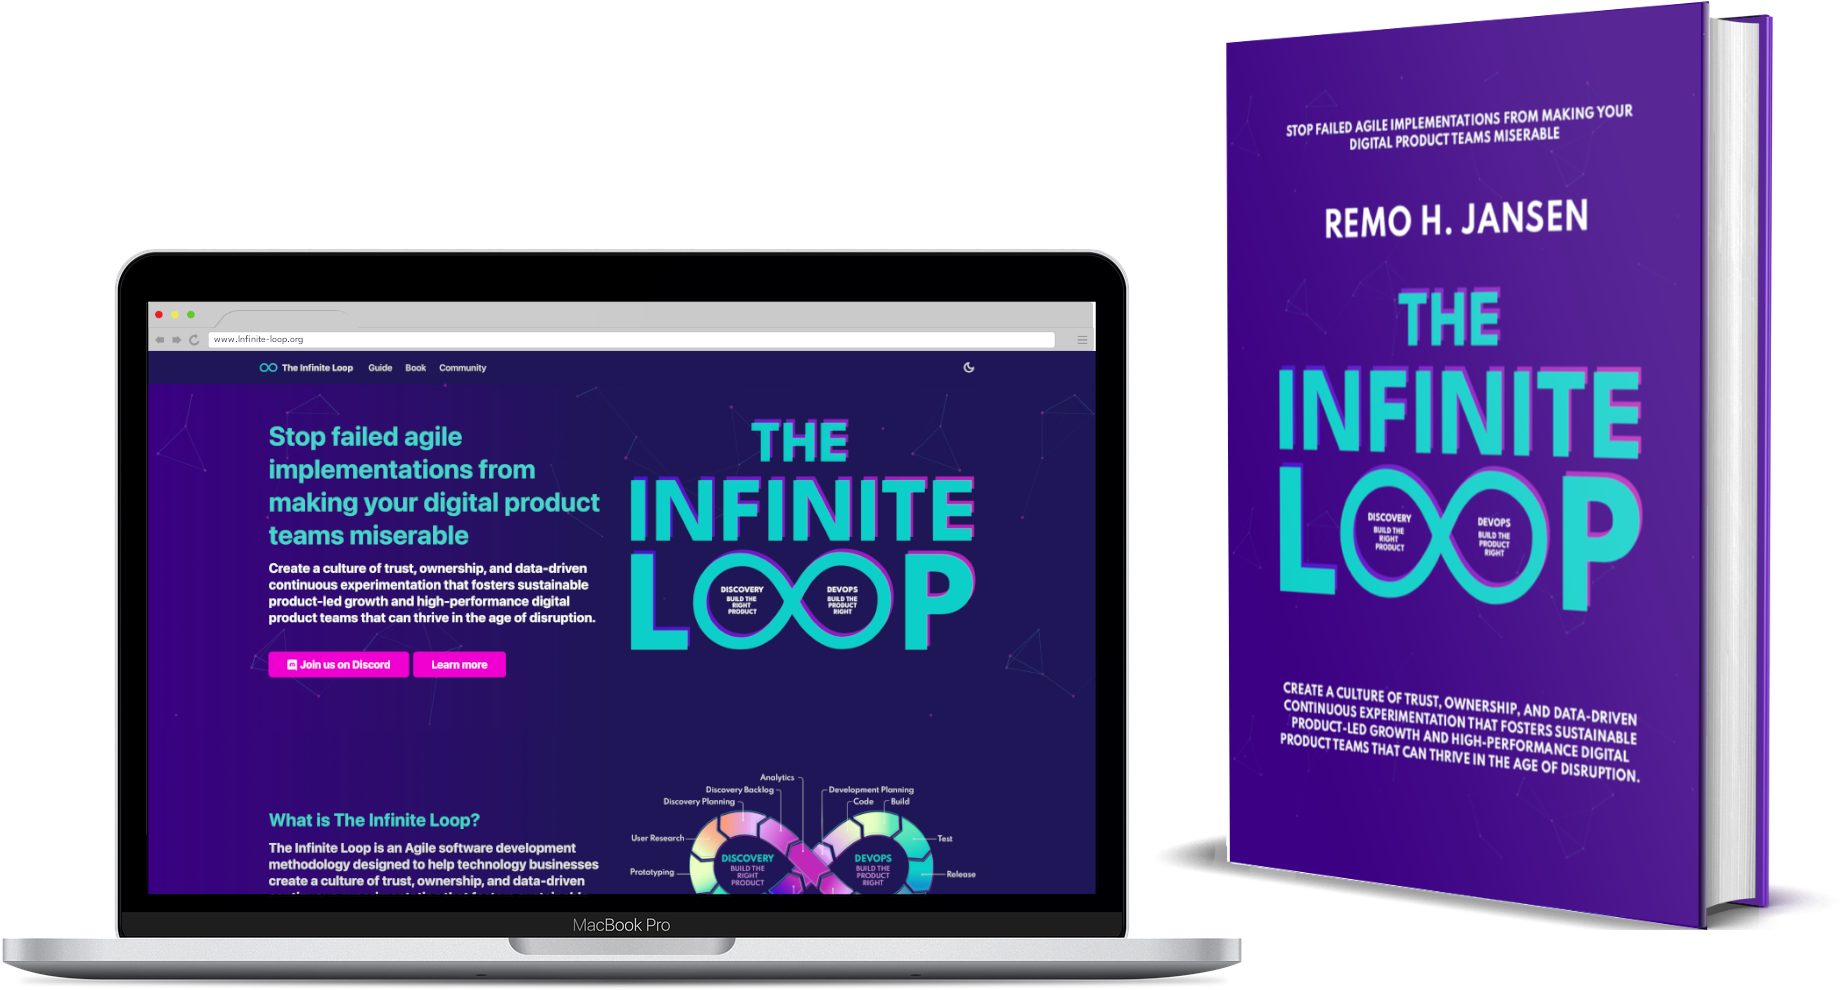
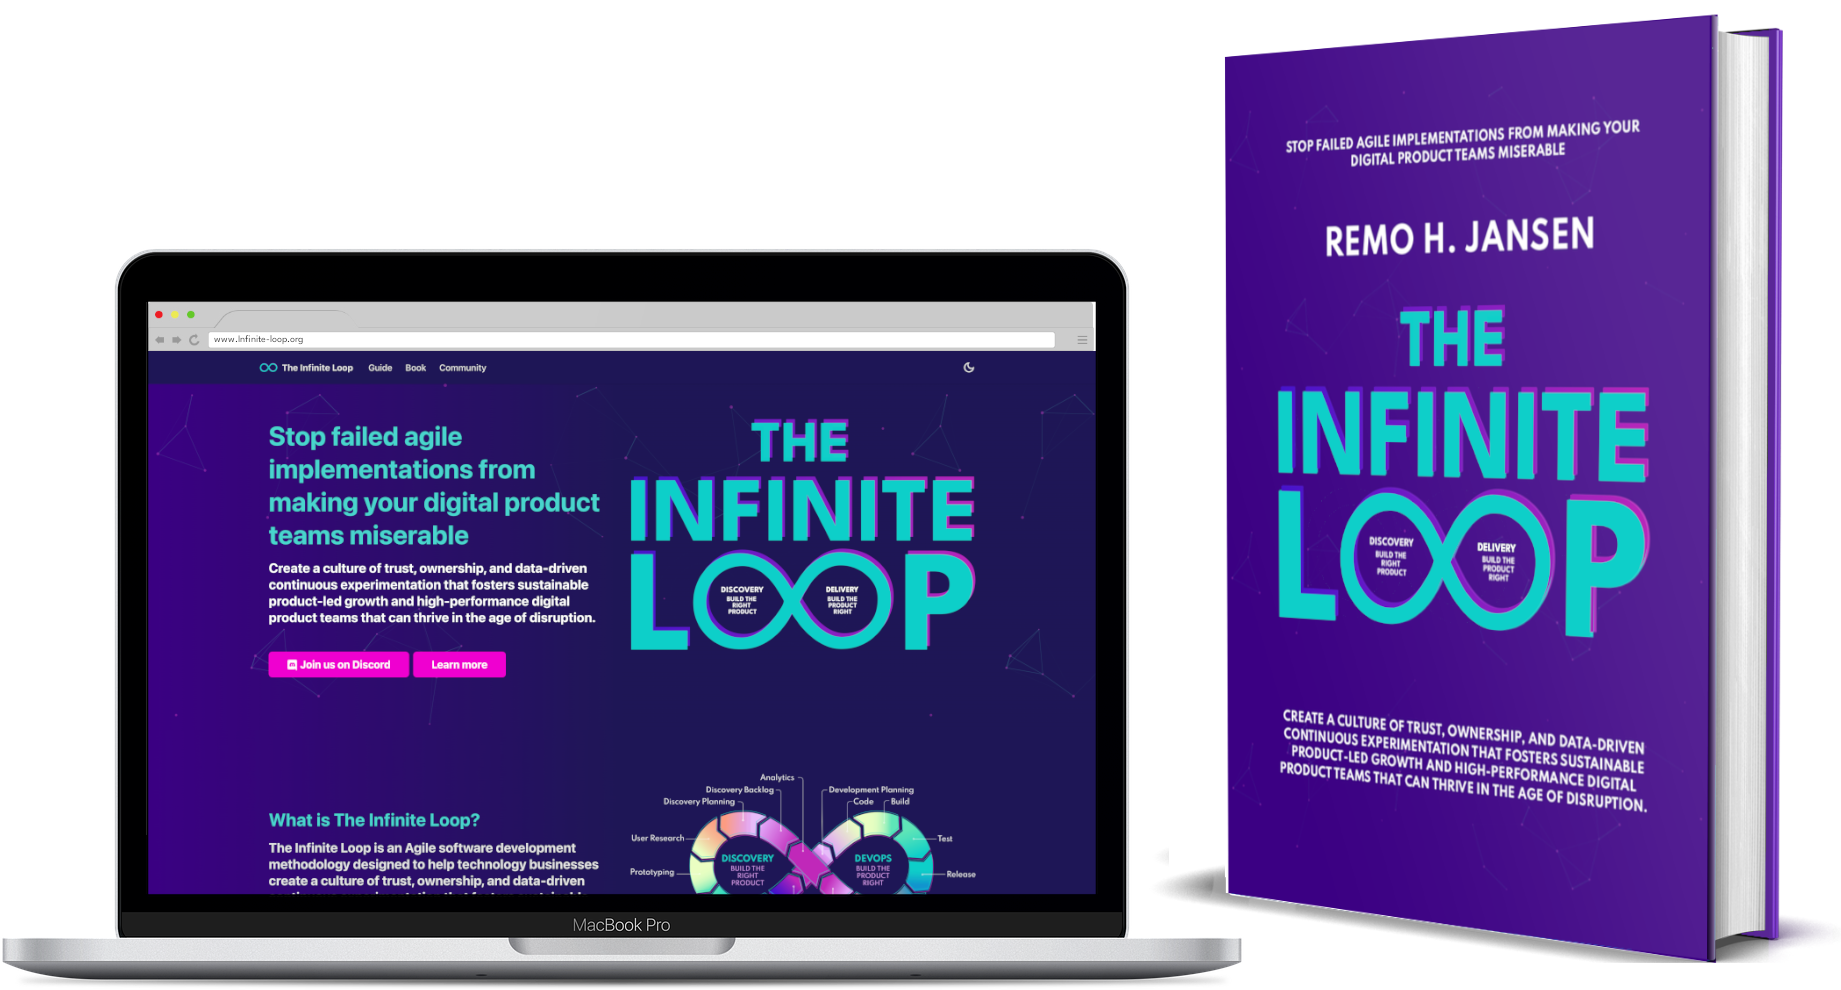
WIP content

Changed region(s): [[0.6192, 0.0, 0.9908, 0.9697]]

diff --git a/src/pages/book.tsx b/src/pages/book.tsx
@@ -20,7 +20,6 @@ const SubscribeModal: React.FC<ModalProps> = ({ isOpen, onRequestClose }) => {
       bottom: "auto",
       marginRight: "-50%",
       transform: "translate(-50%, -50%)",
-      maxWidth: "60%",
       zIndex: 9999,
       background: "var(--ifm-card-background-color)",
       color: "var(--ifm-font-color-base)",
@@ -34,6 +33,9 @@ const SubscribeModal: React.FC<ModalProps> = ({ isOpen, onRequestClose }) => {
   return (
     <Modal isOpen={isOpen} onRequestClose={onRequestClose} style={customStyles}>
       <div className="modal-content">
+        <div className="modal-close">
+          <button onClick={onRequestClose}>ⓧ</button>
+        </div>
         <div className="row">
           <div className="col col--4">
             <img src="/img/book.png" />
@@ -65,7 +67,7 @@ const SubscribeModal: React.FC<ModalProps> = ({ isOpen, onRequestClose }) => {
                       value={value}
                       onChange={handleInputChange}
                       name="EMAIL"
-                      className="required email"
+                      className="required email modal-email"
                       id="mce-EMAIL"
                       required
                     />

diff --git a/src/css/custom.css b/src/css/custom.css
@@ -114,16 +114,31 @@ h1 {
   margin: 0 0 var(--ifm-paragraph-margin-bottom);
 }
 
-.modal-content input[type='email'] {
-  padding: 0.5rem;
-  margin-left: 1rem;
-  width: 50%;
-}
-
 .card .text--truncate {
   overflow: hidden;
   text-overflow: inherit;
   white-space: normal;
+}
+
+.modal-close button {
+  background-color: transparent;
+  border: none;
+  font-size: 2rem;
+  float: right;
+  font-weight: bold;
+  cursor: pointer;
+  margin-right: -30px;
+  margin-top: -30px;
+}
+
+.modal-close {
+  height: 50px;
+}
+
+.modal-email {
+  padding: 0.5rem;
+  display: block;
+  width: 100%;
 }
 
 /* Mobile Devices */
@@ -133,6 +148,10 @@ h1 {
   }
   .hero__subtitle {
     font-size: var(--ifm-h2-font-size);
+  }
+  .ReactModal__Content {
+    max-height: 100vh;
+    overflow-y: scroll;
   }
 }
       
@@ -164,6 +183,9 @@ h1 {
   .hero__subtitle {
     font-size: 16px;
   }
+  .ReactModal__Content {
+    max-width: 60%;
+  }
 }
   
 /* Big boi Monitors */
@@ -173,5 +195,8 @@ h1 {
   }
   .hero__subtitle {
     font-size: 16px;
+  }
+  .ReactModal__Content {
+    max-width: 60%;
   }
 }

diff --git a/guide/02-the-infinite-loop/01-overview.md b/guide/02-the-infinite-loop/01-overview.md
@@ -25,7 +25,7 @@ When we say "discovery," we typically refer to understanding customers' pain poi
 
 Understanding problems and opportunities before you set out to solve them helps reduce risk and uncertainty around investing time and money. It also gives you a solid foundation to launch and grow your product and business once you're ready.
 
-The discovery phase aims to understand the business goals and user needs. The goal is to design solutions to address their critical challenges before committing resources to development. However, this doesn't mean that developers are not involved in the discovery phase. Developers should be engaged in direct conversations with the customer. Also, sometimes the only way to remove unknowns, especially technical unknowns, is to build a prototype that might require development resources. 
+Discovery aims to understand the business goals and user needs. The goal is to design solutions to address their critical challenges before committing resources to development. However, this doesn't mean that developers are not involved in Discovery. Developers should be engaged in direct conversations with the customer. Also, sometimes the only way to remove unknowns, especially technical unknowns, is to build a prototype that might require development resources. 
 
 The goal of product discovery is not necessary to ship features. Instead, it's to promote an environment of learning that will help you prioritize the most learning for the least amount of effort, helping you consistently and incrementally improve your products and features. Ask yourself: what's the smallest thing we can do today to learn something new that would guide us in making decisions? By using this framework and following its steps, product teams can create an environment of continuous learning that leads to genuinely excellent products. 
 
@@ -41,7 +41,7 @@ The goal is to ensure we **build the right product** by eliminating risk (unknow
 
 The discovery process isn't always smooth. Product discovery isn't a linear process; it's an iterative process that changes as you learn more about user needs and reduce uncertainty.
 
-The discovery phase should use good practices and techniques that traditionally have been part of the Lean UX and Product-led growth movements.
+The Discovery should use good practices and techniques that traditionally have been part of the Lean UX and Product-led growth movements.
 
 - Research
 - Ideation
@@ -72,15 +72,15 @@ You can learn more about these techniques by reading the official guide. The gui
 
 :::
 
-The discovery phase should collect data (e.g. customer feedback, usability testing) so that the product team gains enough confidence to commit; they work together to finalise a specification that can be included in the DevOps backlog.
+The Discovery should collect data (e.g. customer feedback, usability testing) so that the product team gains enough confidence to commit; they work together to finalise a specification that can be included in the Delivery backlog.
 
-## DevOps: build the product right
+## Delivery: build the product right
 
 After validating our solution ideas with real user data, developers can implement the application. There are no arbitrary deadlines and inaccurate estimates; we trust the developers are pragmatic and reach the right compromise between providing value and managing technical debt. At this point, our developers are perfectly aware of what they need to get done; they are motivated to deliver value to our customers. 
 
 The developers only need us to leave them alone for a few hours so they can get into the flow and get work done. They have a high level of ownership and are responsible for implementing, releasing and operating the code changes. They constantly search for ways to leverage automation to optimize their feedback loops and improve efficiency. The goal is to **build the product right**.
 
-The DevOps "phase" should implement The Three Ways principles and  use standard DevOps techniques such as the following:
+The Delivery should implement The Three Ways principles and use standard DevOps techniques such as the following:
 
 - Continuous integration (CI)
 - Continuous delivery (CD)
@@ -103,6 +103,8 @@ One of the most critical characteristics of high-performance teams is psychologi
 
 ## Continuous delivery of value
 
-The Infinite Loop is an iterative methodology. The Infinite Loop divides the delivery process into two phases or stages: Discovery and DevOps. The Discovery backlog contains user stories that can be pulled into the Discovery phase. When the UX designers and developers understand the problem they are trying to solve and the proposed solution, they write a spec that becomes an item in the DevOps backlog. 
+The Infinite Loop is meant to be iterative, not linear. The Infinite Loop divides the flow of work into Discovery and Delivery. The Discovery backlog contains user stories that can be pulled into the workboard. When the UX designers and developers understand the problem they are trying to solve and the proposed solution, they write a spec that becomes an item in the Delivery backlog.
 
-However, these two "phases" are not linear. The process should be iterative. We pick one customer pain point at a time and use discovery to mitigate the risk before proceeding to development. Often the same pain point will go through multiple discovery + development iterations. We should use data analytics, A/B testing and outcome basic metrics to measure our progress towards solving our customers' pain points. Discovery leads to development, and development leads to discovery. The process is iterative and infinite, not linear.
+However, Discovery and Delivery are not linear. The process should be iterative. Some discovery work takes a few hours, and others can take longer, but it is an ongoing process of ideation, validation and removing unknowns. We pick one customer pain point at a time and use Discovery to mitigate the risk before proceeding to development. Often the same pain point will go through multiple discovery/development iterations. The Discovery might involve prototyping, surveys, and data mining in early iterations, but successive iterations probably include data analytics and A/B testing in production (doing this in production requires Delivery)
+
+Rather than a Discovery "Phase" where we spend several weeks of validated product backlog items and deliver them to engineering, teams should embrace continuous product discovery – where we are constantly identifying, validating and describing new product backlog items. Discovery feeds Delivery, and Delivery feeds Discovery. They aren't two distinct phases. You can't have one without the other. The process is iterative and infinite, not linear. Discovery and Delivery should ultimately lead to an infinite and continuous delivery of value.

diff --git a/guide/01-fundamentals/01-about.md b/guide/01-fundamentals/01-about.md
@@ -21,6 +21,6 @@ The Infinite Loop proposes the creation of product-led teams that use a pull-bas
   <img src="/img/loop-b.png" />
 </p>
 
-- **Discovery**: Contains tasks that aim to understand the business goals and user needs and design solutions to address their critical challenges before committing resources to development. However, this doesn't mean that development is not involved in the discovery phase. Developers should be engaged in direct conversations with the customer. Also, sometimes the only way to remove unknowns, especially technical unknowns, is to build a prototype that might require development resources. The goal is to ensure that we will build the right product by eliminating unknowns. When the product team gains enough confidence to commit, they work together to finalise a specification that can be included in the DevOps backlog.
+- **Discovery**: Contains tasks that aim to understand the business goals and user needs and design solutions to address their critical challenges before committing resources to development. However, this doesn't mean that development is not involved Discovery. Developers should be engaged in direct conversations with the customer. Also, sometimes the only way to remove unknowns, especially technical unknowns, is to build a prototype that might require development resources. The goal is to ensure that we will build the right product by eliminating unknowns. When the product team gains enough confidence to commit, they work together to finalise a specification that can be included in the Delivery backlog.
 
-- **DevOps**: Once users have validated our solution ideas, developers can implement the application. The development team is not pressured to hit an arbitrary deadline or an inaccurate estimate. At this point, our developers are perfectly aware of what they need to get done, they are motivated to deliver value to our customers, and we trust them and empower them to reach the right compromise between providing value and managing technical debt. The developers only need to leave them alone, so they get work done. They have a high level of ownership and are responsible for implementing, releasing and operating the code changes. They constantly search for ways to leverage automation to optimise their feedback loops and improve efficiency. The goal is to build the product right.
+- **Delivery**: Once users have validated our solution ideas, developers can implement the application. The development team is not pressured to hit an arbitrary deadline or an inaccurate estimate. At this point, our developers are perfectly aware of what they need to get done, they are motivated to deliver value to our customers, and we trust them and empower them to reach the right compromise between providing value and managing technical debt. The developers only need to leave them alone, so they get work done. They have a high level of ownership and are responsible for implementing, releasing and operating the code changes. They constantly search for ways to leverage automation to optimise their feedback loops and improve efficiency. The goal is to build the product right.

diff --git a/guide/02-the-infinite-loop/04-team-and-roles.md b/guide/02-the-infinite-loop/04-team-and-roles.md
@@ -4,7 +4,9 @@ sidebar_position: 4
 
 # L∞P's team & roles
 
-> "If you want to go fast, go alone; if you want to go far, go together" - African proverb
+> "If you want to go fast, go alone; if you want to go far, go together"
+> 
+> — African proverb
 
 L∞P tries to balance collaboration and working as a team, so we can attempt to achieve goals that are bigger than ourselves (go far) with focus and alone time so we can get into the zone and be super productive (go fast). When we work together, our goal should be to remove unknowns and enable autonomy; then, we can go our separate ways and get stuff done.
 

diff --git a/guide/02-the-infinite-loop/03-it-wont-work.md b/guide/02-the-infinite-loop/03-it-wont-work.md
@@ -2,7 +2,7 @@
 sidebar_position: 3
 ---
 
-# Addressing skepticism
+# Addressing scepticism
 
 Trying to convince your organisation's management team to do things such as eliminating estimates and deadlines may seem out of touch with reality. My problem with this reaction is that I have experienced first-hand what it is like to work under these principles.
 
